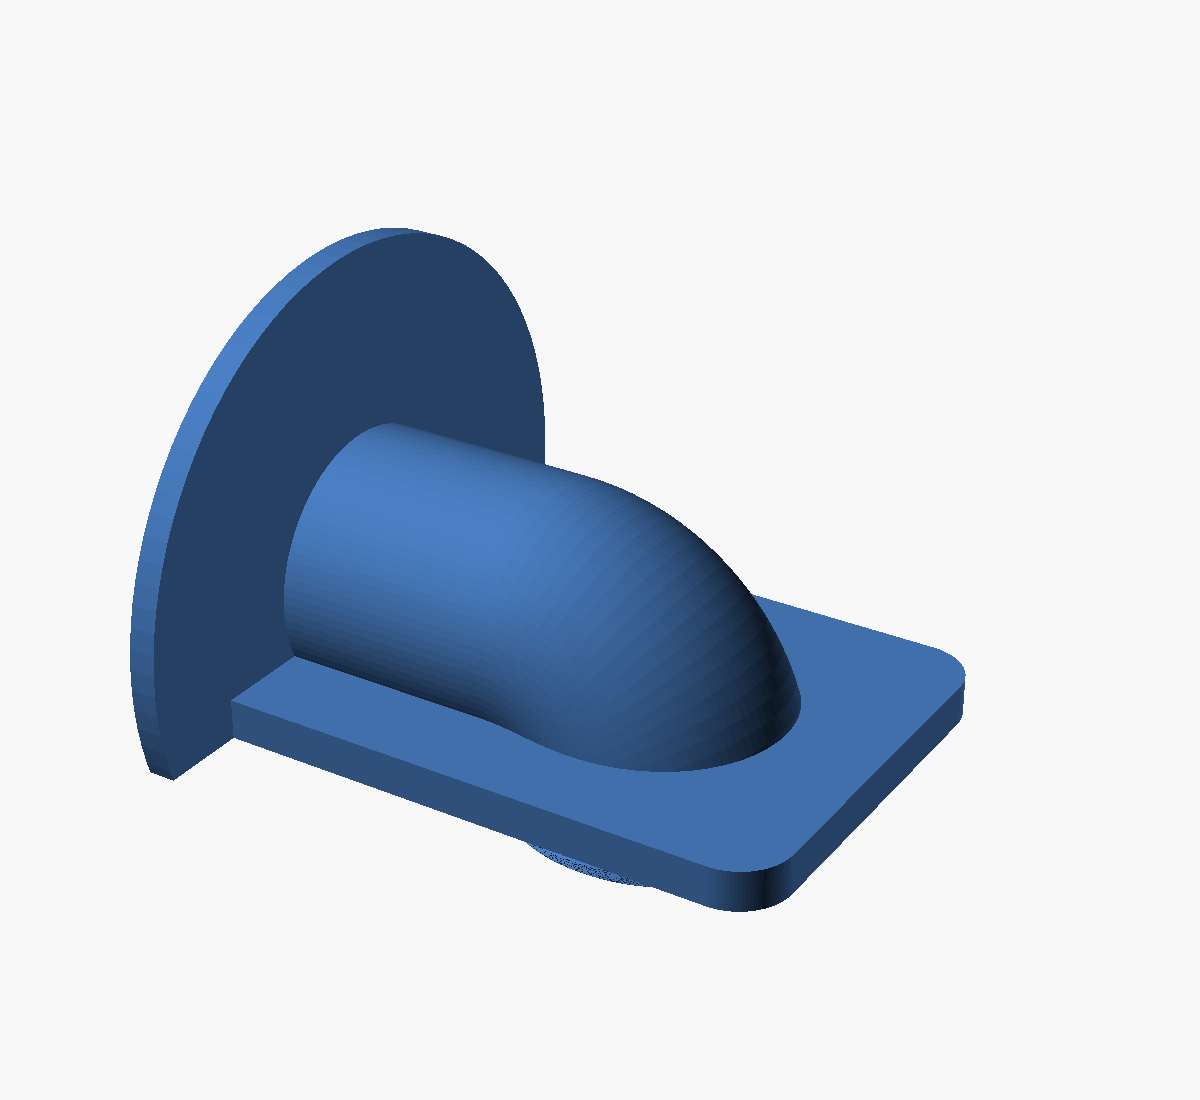
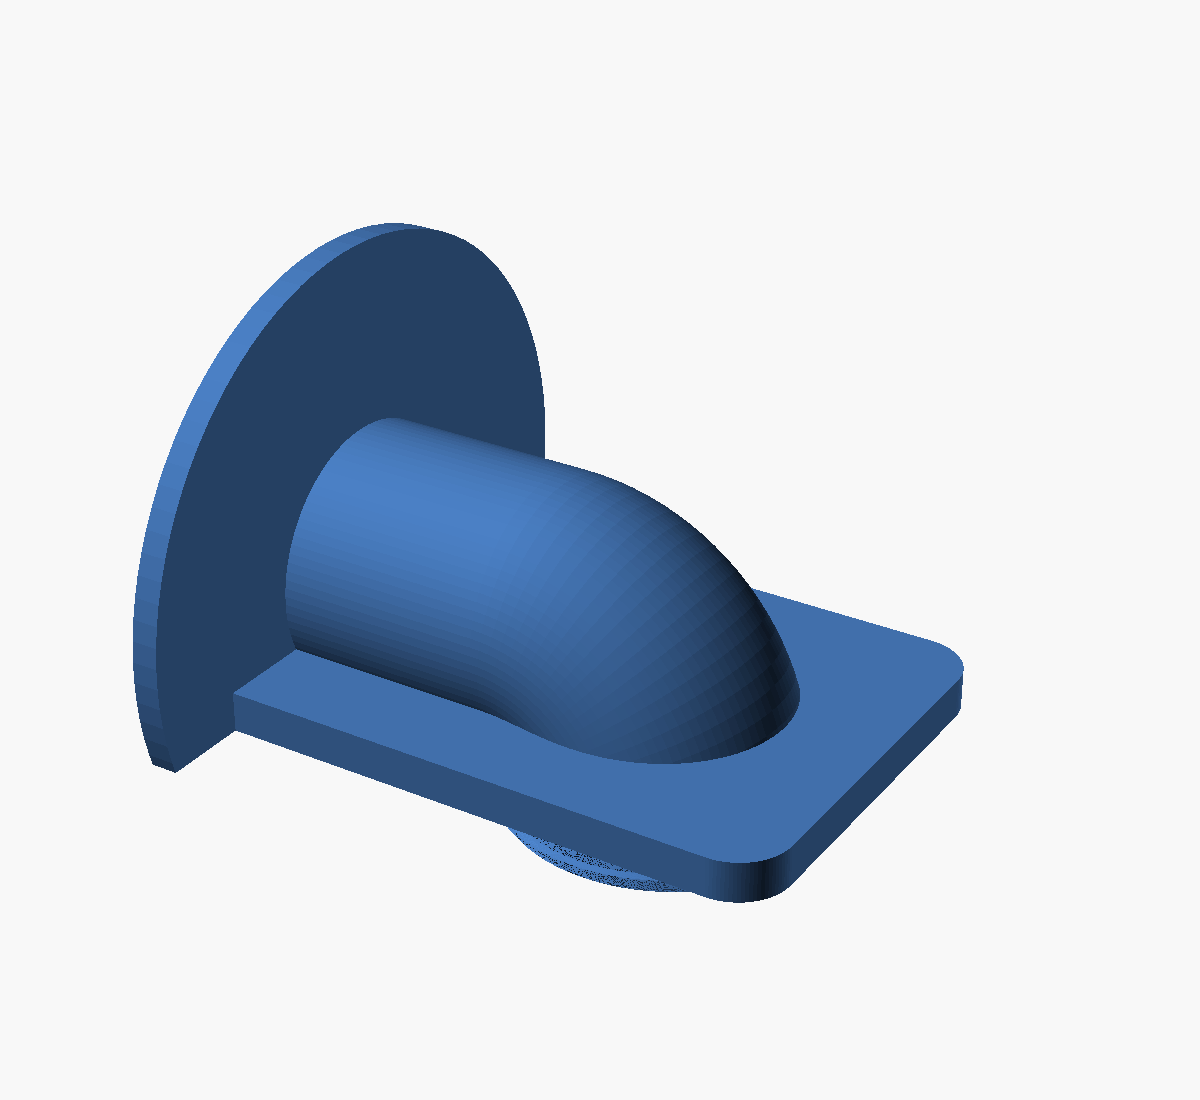
corner_elbow_clear: the same longer neck and real pipe-end recess as the other two
This is the third and last of the parts that screw into the same hole in the
same panel and are held by the same nut, and it was left on the old numbers
when the bend and the elbow were corrected. Printing it gave a neck that does
not reach.

stuss_depth 7 -> 9. Every millimetre of the neck is thread, so that is the
whole change in thread: 9 mm and 3 turns become 11 mm and 3.7. The count is
derived (thread_turns) and echoed rather than left to be divided out.

The recess in the glue face was Ø40.8 and pipe_stub + 0.7 + 0.1 deep -- a fudge
factor on a measurement of how proud the pipe stands. It gets its own depth and
its own clearance: Ø42.8 x 2 mm. The old indirect assert, glue_t > pipe_stub +
1.5, was guarding the seat behind the recess by way of the stub; it now says
what it means in two parts -- the recess must clear the stub, and what is left
of glue_t behind it must still be a seat.

Measured in the mesh, old against new: the neck reaches z = -9.00 -> -11.00,
and the recess floor moves from x = 1.70 to 2.00 with its outer radius 20.40 ->
21.40 about the conduit axis at z = 14.

All five presets render manifold and, importantly, still GENUS 1 -- the file's
own invariant that nothing crosses the channel. Neither the longer neck nor the
wider recess closes a bridge across it. The full build is 40 presets, no
errors, no warnings.

diff --git a/CORNER_BEND.md b/CORNER_BEND.md
@@ -356,7 +356,7 @@ The same bore takes it out, so the floor runs flat into the hole. **Only above t
 face**, though: below it the stuss is what the nut pulls on and what centres itself in the
 panel's Ø50 hole, and notching it there would spend a slice of its section to buy a
 millimetre of lead-in. From the bearing face down it is a complete ring, and the thread the
-nut actually engages — 2 to 8 mm below the panel — is never touched.
+nut actually engages — anywhere from 2 to 11 mm below the panel — is never touched.
 
 | Straight up at the underside: the bearing face is a C, open where the channel runs in |
 |:---:|
@@ -393,6 +393,26 @@ to compare.
 
 It costs 6.2 cm³ of the part's 50.7, and dropping the collar costs another 5.8. Both are
 choices you can back out of one number at a time.
+
+## The same neck, and the pipe's own end
+
+This part screws into the same hole in the same panel and is held by the same nut as the other
+two, so it carries the same two corrections.
+
+`stuss_depth` is **9 mm**, not 7. Every millimetre of the neck is thread, so
+`plate_thickness + stuss_depth` is the whole threaded length: **11 mm, 3.7 turns at 3 mm
+pitch**, of which the 6 mm nut takes 2. At 7 mm the neck did not reach far enough through the
+panel to take the nut properly. The turn count is derived and echoed on every render rather
+than left to be divided out.
+
+The recess in the glue face is **Ø42.8 × 2 mm deep**. It was Ø40.8 and `pipe_stub + 0.7` — a
+fudge factor on a measurement of how proud the pipe stands. It now has its own depth and its
+own clearance, for the reason given in [the chamber's chapter](#the-screw-and-the-pipes-own-end):
+a conduit is never cut as square as the drawing says. Two asserts replace the old indirect one
+— the recess must clear the stub, and what is left of `glue_t` behind it must still be a seat.
+
+Note that this is the **long-neck** part of the three in every other respect too: `plate_t` is
+6 mm rather than 4, so the stuss stands proud of a plate half again as thick.
 
 ## Presets
 
